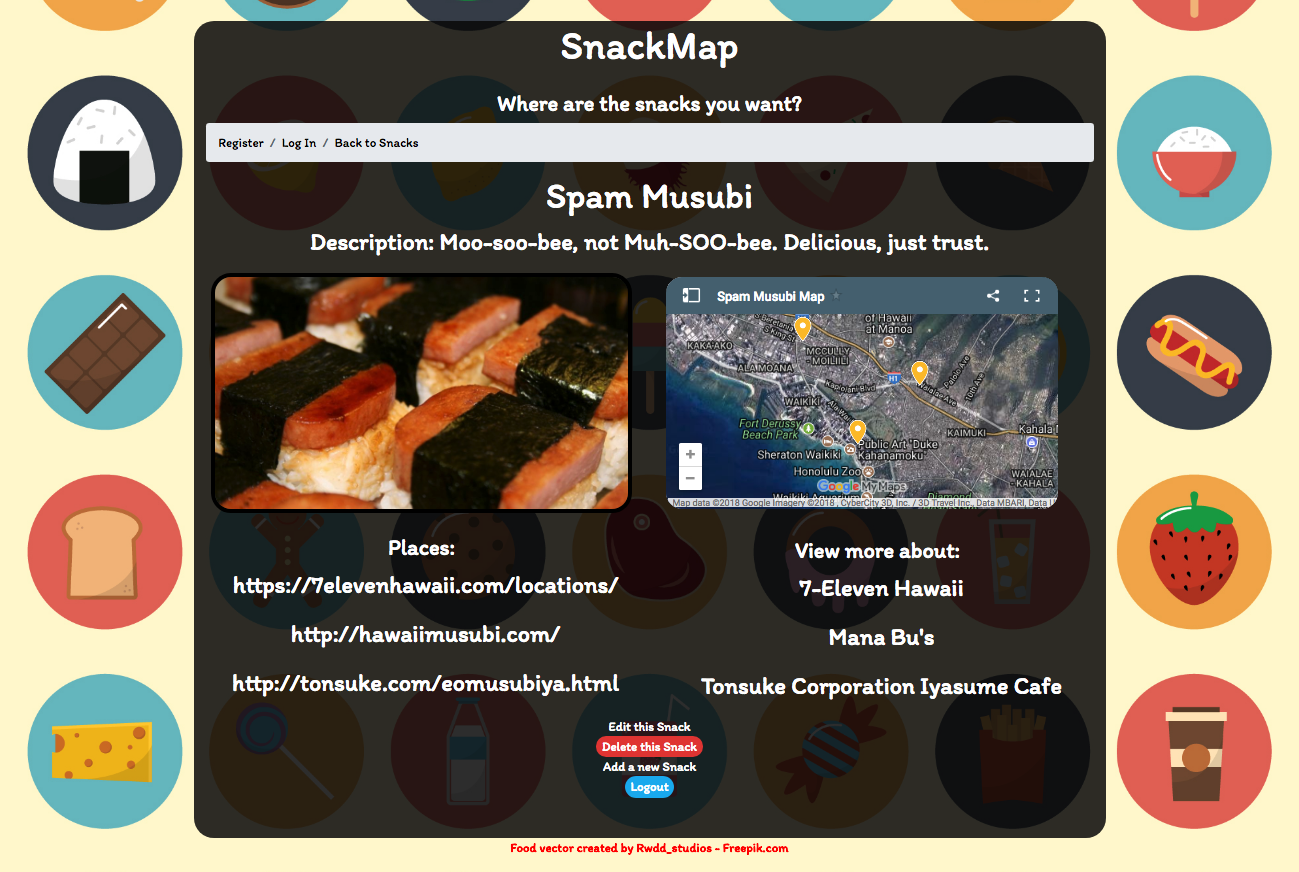
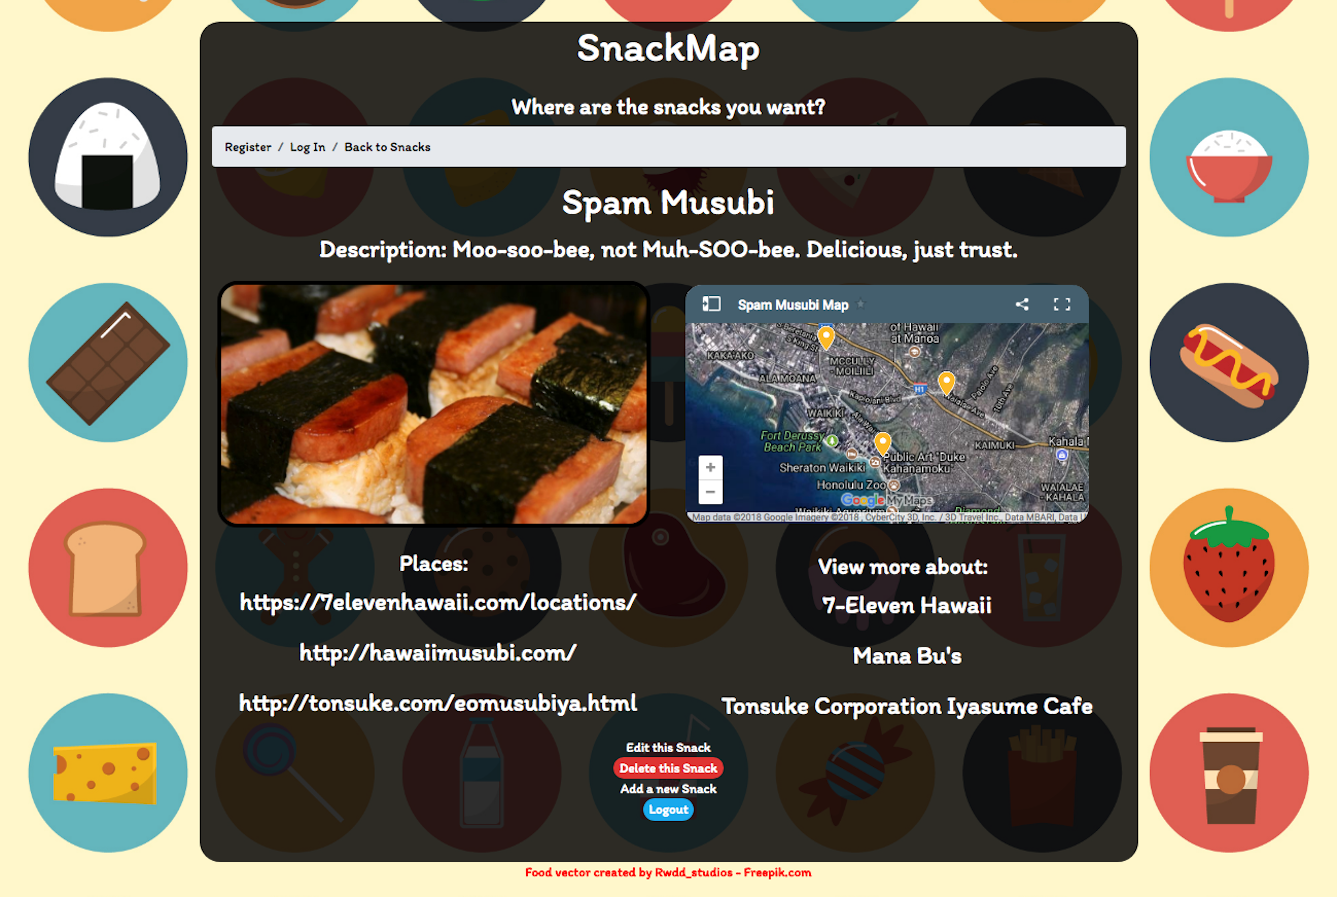
more styling

diff --git a/index.html b/index.html
@@ -2,23 +2,30 @@
 <html lang="en" dir="ltr">
     <head>
         <meta charset="utf-8">
+        <link href="https://fonts.googleapis.com/css?family=Gothic+A1" rel="stylesheet">
         <link href="https://fonts.googleapis.com/css?family=Lilita+One|Nanum+Gothic|Titan+One" rel="stylesheet">
+        <link rel="stylesheet" href="https://use.fontawesome.com/releases/v5.0.13/css/all.css" integrity="sha384-DNOHZ68U8hZfKXOrtjWvjxusGo9WQnrNx2sqG0tfsghAvtVlRW3tvkXWZh58N9jp" crossorigin="anonymous">
         <title>Olena Penn</title>
         <link rel="stylesheet" href="css/main.css">
     </head>
     <body>
         <!-- Nav Bar -->
+        <div class="top">
         <img id="name" src="olena_purple_blue.png" alt="OLENA PENN">
+    </div>
             <nav>
-                <ul class="container">
-                    <li>Oahu image ?</li>
-                    <li>About me ?</li>
-                    <li>github</li>
-                    <li>linkedin</li>
-                    <li>Resume</li>
+                <ul class="nav">
+                    <li>WEB DEVELOPER IN HONOLULU, HI </li>
+                    <li>about me</li>
+                    <li> resume</li>
+                    <li><a href="https://github.com/op9674a"><i class="fab fa-github"></i></a></li>
+                    <li id="right"><a href="https://www.linkedin.com/in/olenapenn/"><i class="fab fa-linkedin"></i></a></li>
+
                 </ul>
             </nav>
-            <div class="container" id="projects">
+            <h1>PORTFOLIO</h1>
+            <div class="cards-container" id="projects">
+
         <!-- Projects -->
             <div class="card">
             <!-- Project title link -->
@@ -29,45 +36,62 @@
         <br>
             <div class="card">
             <!-- Project title link -->
-                <a href="https://music-mood-app.herokuapp.com">MusicMood</a>
+                <a id="title" href="https://music-mood-app.herokuapp.com">MusicMood</a>
+                <div id="content-img">
             <!-- image -->
                 <img id="project-img" src="MusicMood.png" alt="MusicMood screenshot">
+                </div>
             <!-- description -->
-                A Ruby on Rails with React team project with <a href="https://github.com/benpeterswake">benpeterswake</a>and <a href="#">victorjaquez</a>
+                <div id="description">
+                <p>A Ruby on Rails with React team project with <a href="https://github.com/benpeterswake">benpeterswake</a>and <a href="https://github.com/victorjaquez">victorjaquez</a></p>
+                </div>
+
             </div>
-            <br>
+
             <div class="card">
             <!-- Project title link -->
-                <a href="https://guitawesome.herokuapp.com/">GuitAWESOME</a>
+                <a id="title" href="https://guitawesome.herokuapp.com/">GuitAWESOME</a>
+                <div id="content-img">
             <!-- image -->
                 <img id="project-img" src="guitAwesome.png" alt="guitAwesome screenshot">
+            </div>
             <!-- description -->
+            <div id="description">
                 <p>What can I say...the name was a brainstorming joke and it stuck. A MEAN stack team project with
                 <a href="https://github.com/relam24/guitAWESOME">relam24</a>
             </p>
             </div>
-            <br>
+            </div>
+
 
             <div class="card">
             <!-- Project title link -->
-                <a href="https://safe-woodland-83862.herokuapp.com/treats">SnackMap</a>
+                <a id="title" href="https://safe-woodland-83862.herokuapp.com/treats">SnackMap</a>
             <!-- image -->
+            <div id="content-img">
                 <img id="project-img" src="SnackMap.png" alt="SnackMap screenshot">
+            </div>
             <!-- description -->
+            <div id="description">
                 <p>I had a lot of fun with this project, featuring some of my favorite Hawaii snacks and locations. There is a lot more I want to add to this. Thanks to <a href="https://github.com/ba5eem">ba5eem</a> for help with the API!
                 </p>
             </div>
-            <br>
+        </div>
+
             <!-- Project title link -->
             <!-- image -->
             <!-- description -->
             <div class="card">
             <!-- Project title link -->
-                <a href="https://op9674a.github.io/game/">Charlie Brown Tic-Tac-Four</a>
+                <a id="title" href="https://op9674a.github.io/game/">Charlie Brown Tic-Tac-Four</a>
+                <div id="content-img">
             <!-- image -->
                 <img id="project-img" src="TicTacFour.png" alt="TictacFour screenshot">
+            </div>
             <!-- description -->
-                <p>My first and maybe most painful project, that was somehow still fun. Lots left to do here as well. HTML, CSS, Javascript.</p>
+            <div id="description">
+                <p>My first and maybe most painful project, that was somehow still fun. HTML, CSS, Javascript.</p>
+            </div>
         </div>
         <br>
         </div>

diff --git a/css/main.css b/css/main.css
@@ -1,62 +1,120 @@
 body {
-        background: white;
-}
-#name{
-    min-height: 180px;
-    max-height: 180px;
-    margin-left: 550px;
 
+        font-family: 'Gothic A1', sans-serif;
+        font-weight: bold;
 }
-.container{
+
+#name{
+    min-height: 135px;
+    max-height: 135px;
+    min-width: 450px;
+    max-width: 450px;
+    display: block;
+    margin: 0 auto;
+}
+.nav{
     display: flex;
-    background: white;
-}
-
-.container > li {
-  flex: 1;
-}
-
-#name{
-    font-family: 'Lilita One', cursive;
-    font-family: 'Titan One', cursive;
-    font-family: 'Nanum Gothic', sans-serif;
-    font-weight: 900;
-    /* font-size: 50px; */
-}
-
-nav {
-    margin-top: 50px;
+    flex-direction:row;
+    padding: 10px;
     border-bottom: 5px solid black;
     width: 100%;
+    text-align: center;
+    align-items: center;
 }
 
-#projects{
-    margin-top: 50px;
+.nav > li {
+  list-style: none;
+  margin: auto;
+  font-size: 30px;
+}
+
+a:link {
+    color: black;
+    text-decoration:none;
+}
+
+p a:link{
+    color: #8f4dca;
+}
+
+p a:visited{
+    color: #aca1ff;
+}
+
+h1{
+    text-align: center;
+}
+
+.cards-container{
+    padding: 0;
+    margin: 0;
+    list-style: none;
+    flex-wrap: wrap;
+    -webkit-flex-wrap: wrap;
+    -ms-box-orient: horizontal;
+    display: -webkit-box;
+    display: -moz-box;
+    display: -ms-flexbox;
+    display: -moz-flex;
+    display: -webkit-flex;
+    display: flex;
+    background: rgba(255,224,251, 0.1);
 }
 
 .card {
-   display: flex;
-   flex-wrap: wrap;
-   justify-content: space-between;
-   border: 1px solid black;
+    border: 1px solid black;
+    overflow: hidden;
+    display: flex;
+    flex-direction: column;
+    width: 400px;
+    height: 400px;
+    margin: 10px;
+    margin: 5px;
+}
+
+#title{
+    text-align:center;
+    font-size: 20px;
+    border: 3px solid black;
+    background: white;
+}
+
+#content-img{
+    /* display: flex;
+    flex-direction: column;
+    justify-content: center;
+    align-items: center; */
+
+    margin-bottom: 5px;
+    background: white;
 }
 
 #project-img{
-    min-width: 550px;
-    max-width: 550px;
+    min-width: 100%;
+    max-width: 100%;
     min-height: 300px;
     max-height: 300px;
+
 }
 
+#description {
+    margin-left: 25px;
+    margin-right: 25px;
+    min-width: 100%;
+    max-width: 100%;
+    min-height: 100%;
+    max-height: 100%;
+}
 
 
 @media all and (max-width: 600px) {
 
-  .container {
+  .container, .cards-container {
     flex-wrap: wrap;
   }
 
   .container > li {
     flex-basis: 50%;
   }
+
 }
